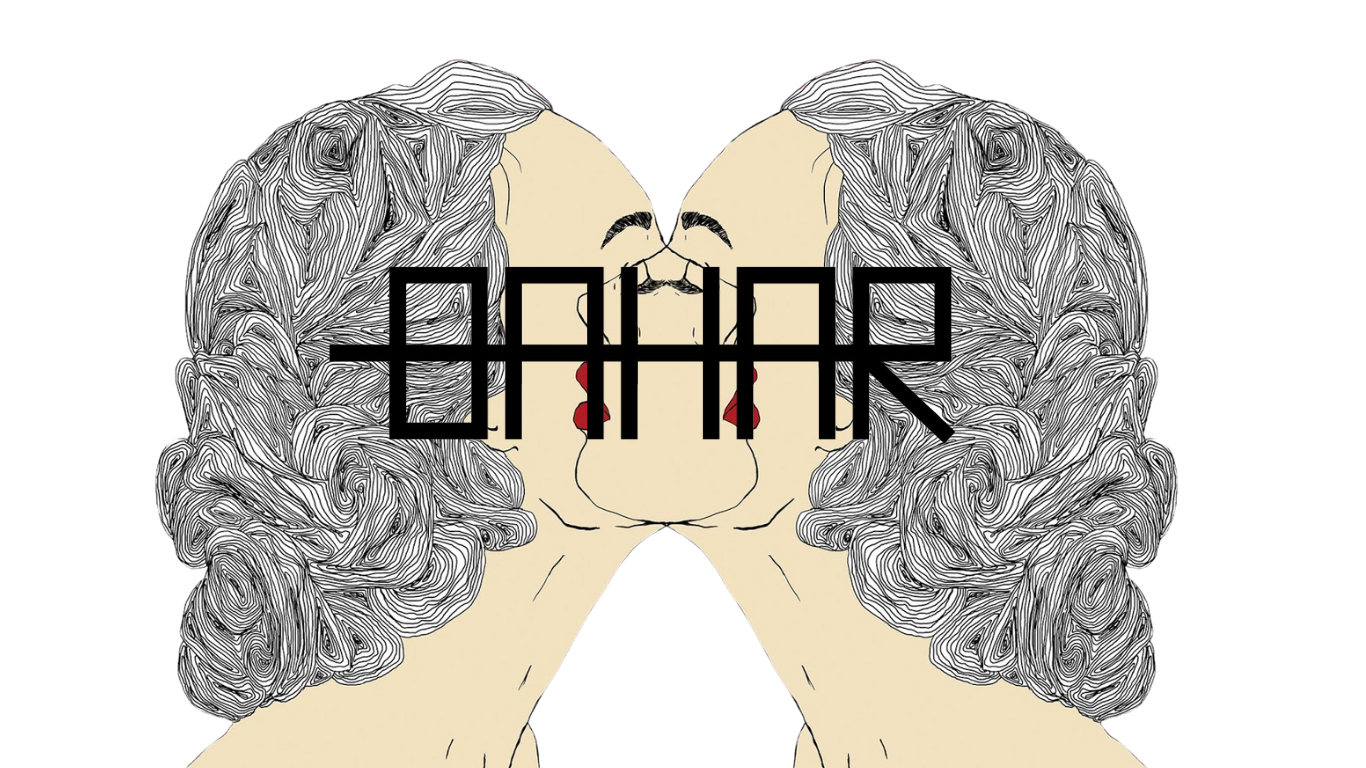
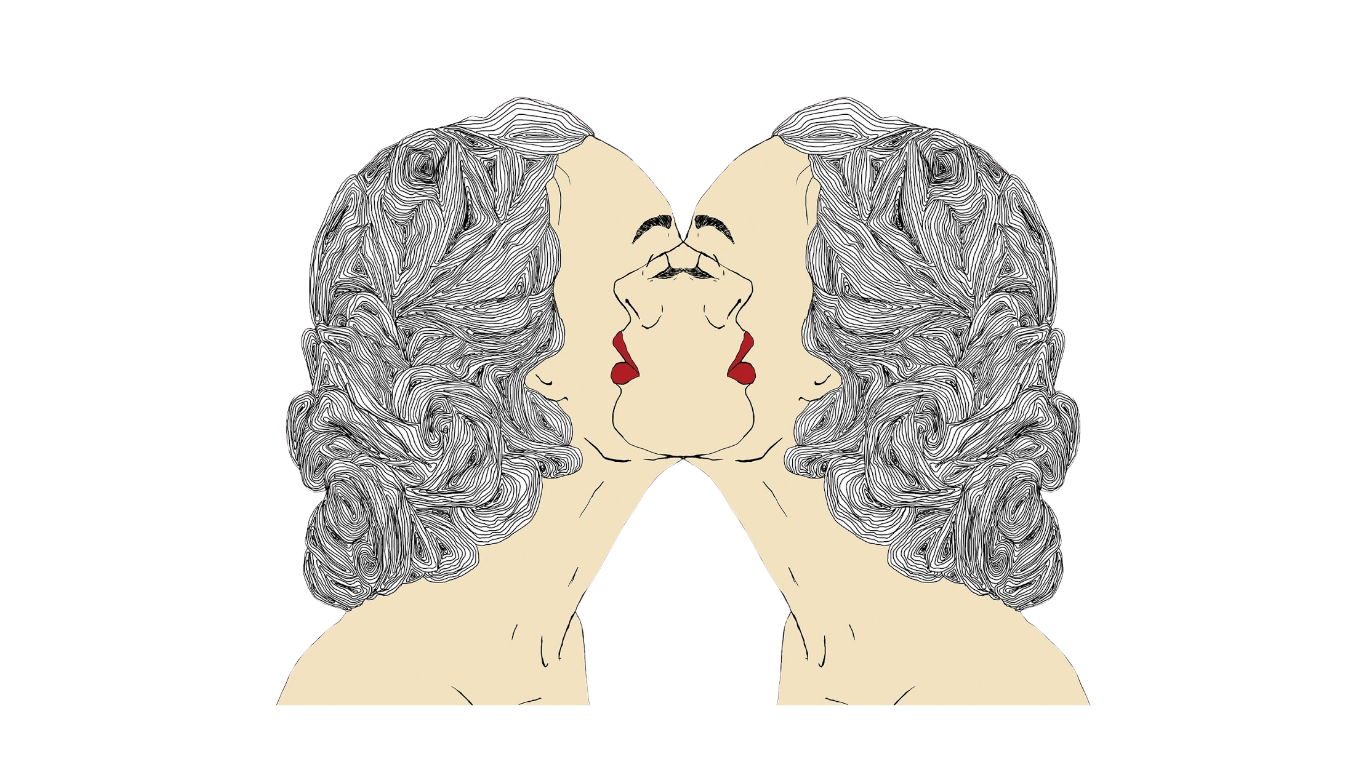
Update images & align front page

diff --git a/src/components/art-section.tsx b/src/components/art-section.tsx
@@ -35,10 +35,10 @@ const works = {
         { src: '/illustration9.jpg', title: 'Illustration Work 9' },
     ],
     collage: [
-        { src: '/collage1.png', title: 'Urban Fragments' },
-        { src: '/collage2.png', title: 'Nature Remix' },
-        { src: '/collage3.png', title: 'Retro Futurism' },
-        { src: '/collage4.png', title: 'Pop Culture Mashup' },
+        { src: '/collage1.jpg', title: 'Urban Fragments' },
+        { src: '/collage2.jpg', title: 'Nature Remix' },
+        { src: '/collage3.jpg', title: 'Retro Futurism' },
+        { src: '/collage4.jpg', title: 'Pop Culture Mashup' },
     ],
 };
 
@@ -65,117 +65,17 @@ export function ArtSection({ artSubsection, onSubsectionChange, onFullscreenImag
     };
 
     const renderArtworks = (artworks: typeof works[keyof typeof works]) => {
-        if (artSubsection === 'collage') {
-            return (
-                <div className="grid grid-cols-2 gap-4">
-                    {artworks.map(({ src, title }, index) => (
-                        <motion.div
-                            key={index}
-                            initial={{ opacity: 0, scale: 0.9 }}
-                            animate={{ opacity: 1, scale: 1 }}
-                            transition={{ delay: index * 0.1 }}
-                            className="group relative overflow-hidden rounded-lg shadow-md"
-                        >
-                            <div className="aspect-square relative bg-gray-200">
-                                {!imageError[src] && (
-                                    <Image
-                                        src={src}
-                                        alt={title}
-                                        layout="fill"
-                                        objectFit="cover"
-                                        className="transition-transform duration-300 group-hover:scale-105"
-                                        onError={() => handleImageError(src)}
-                                        sizes="(max-width: 768px) 50vw, 33vw"
-                                        loading="lazy"
-                                    />
-                                )}
-                                {imageError[src] && (
-                                    <div className="absolute inset-0 flex items-center justify-center text-gray-500">
-                                        Image not available
-                                    </div>
-                                )}
-                            </div>
-                            <div className="absolute inset-0 bg-black bg-opacity-0 group-hover:bg-opacity-50 transition-opacity duration-300 flex items-center justify-center">
-                                <motion.div
-                                    initial={{ opacity: 0 }}
-                                    whileHover={{ opacity: 1 }}
-                                    className="text-white text-center p-4"
-                                >
-                                    <h3 className="text-lg font-light mb-2">{title}</h3>
-                                    <button
-                                        onClick={() => onFullscreenImage(src)}
-                                        className="bg-white text-black px-3 py-1 rounded-full text-sm flex items-center mx-auto"
-                                    >
-                                        <ZoomIn size={16} className="mr-1" /> View
-                                    </button>
-                                </motion.div>
-                            </div>
-                        </motion.div>
-                    ))}
-                </div>
-            );
-        } else if (artSubsection === 'tattoo') {
-            return (
-                <div className="grid grid-cols-2 md:grid-cols-3 gap-6">
-                    {artworks.map(({ src, title }, index) => (
-                        <motion.div
-                            key={index}
-                            initial={{ opacity: 0, scale: 0.9 }}
-                            animate={{ opacity: 1, scale: 1 }}
-                            transition={{ delay: index * 0.1 }}
-                            className="group relative overflow-hidden rounded-lg shadow-md"
-                        >
-                            <div className="aspect-square relative bg-gray-200">
-                                {!imageError[src] && (
-                                    <Image
-                                        src={src}
-                                        alt={title}
-                                        layout="fill"
-                                        objectFit="cover"
-                                        className="transition-transform duration-300 group-hover:scale-105"
-                                        onError={() => handleImageError(src)}
-                                        sizes="(max-width: 768px) 50vw, 33vw"
-                                        loading="lazy"
-                                    />
-                                )}
-                                {imageError[src] && (
-                                    <div className="absolute inset-0 flex items-center justify-center text-gray-500">
-                                        Image not available
-                                    </div>
-                                )}
-                            </div>
-                            <div className="absolute inset-0 bg-black bg-opacity-0 group-hover:bg-opacity-50 transition-opacity duration-300 flex items-center justify-center">
-                                <motion.div
-                                    initial={{ opacity: 0 }}
-                                    whileHover={{ opacity: 1 }}
-                                    className="text-white text-center p-4"
-                                >
-                                    <h3 className="text-lg font-light mb-2">{title}</h3>
-                                    <button
-                                        onClick={() => onFullscreenImage(src)}
-                                        className="bg-white text-black px-3 py-1 rounded-full text-sm flex items-center mx-auto"
-                                    >
-                                        <ZoomIn size={16} className="mr-1" /> View
-                                    </button>
-                                </motion.div>
-                            </div>
-                        </motion.div>
-                    ))}
-                </div>
-            );
-        }
-
         return (
-            <div className="grid grid-cols-1 sm:grid-cols-2 lg:grid-cols-3 gap-8">
+            <div className="grid grid-cols-2 md:grid-cols-3 gap-6">
                 {artworks.map(({ src, title }, index) => (
                     <motion.div
                         key={index}
-                        initial={{ opacity: 0, y: 20 }}
-                        animate={{ opacity: 1, y: 0 }}
+                        initial={{ opacity: 0, scale: 0.9 }}
+                        animate={{ opacity: 1, scale: 1 }}
                         transition={{ delay: index * 0.1 }}
                         className="group relative overflow-hidden rounded-lg shadow-md"
                     >
-                        <div className="aspect-[3/4] relative bg-gray-200">
+                        <div className="aspect-square relative bg-gray-200">
                             {!imageError[src] && (
                                 <Image
                                     src={src}
@@ -184,7 +84,7 @@ export function ArtSection({ artSubsection, onSubsectionChange, onFullscreenImag
                                     objectFit="cover"
                                     className="transition-transform duration-300 group-hover:scale-105"
                                     onError={() => handleImageError(src)}
-                                    sizes="(max-width: 768px) 100vw, (max-width: 1200px) 50vw, 33vw"
+                                    sizes="(max-width: 768px) 50vw, 33vw"
                                     loading="lazy"
                                 />
                             )}

diff --git a/src/components/landing-page.tsx b/src/components/landing-page.tsx
@@ -154,8 +154,8 @@ export function LandingPage() {
   const [artSubsection, setArtSubsection] = useState<'tattoo' | 'illustration' | 'collage' | null>(null);
 
   const images = [
-    '/bahar1.png',
-    '/bahar2.png',
+    '/bahar1.png',  // Reverted back to .png
+    '/bahar2.jpg',  // This remains as .jpg as per your previous request
   ];
 
   const [formData, setFormData] = useState({
@@ -297,14 +297,14 @@ export function LandingPage() {
                 ))}
               </div>
               <div className="absolute inset-0 flex flex-col items-center justify-center text-center bg-white bg-opacity-70 p-4 z-10">
-                <div className="w-full flex justify-center">
+                <div className="w-full flex justify-center mb-4 md:mb-8">
                   <Image
                     src="/logo.png"
                     alt="Bahar Sener Logo"
                     width={120}
                     height={120}
-                    className="mb-8"
-                    style={{ marginLeft: '-46px' }}
+                    className="md:mb-0"
+                    style={{ marginLeft: '0px' }}
                   />
                 </div>
                 <motion.div
